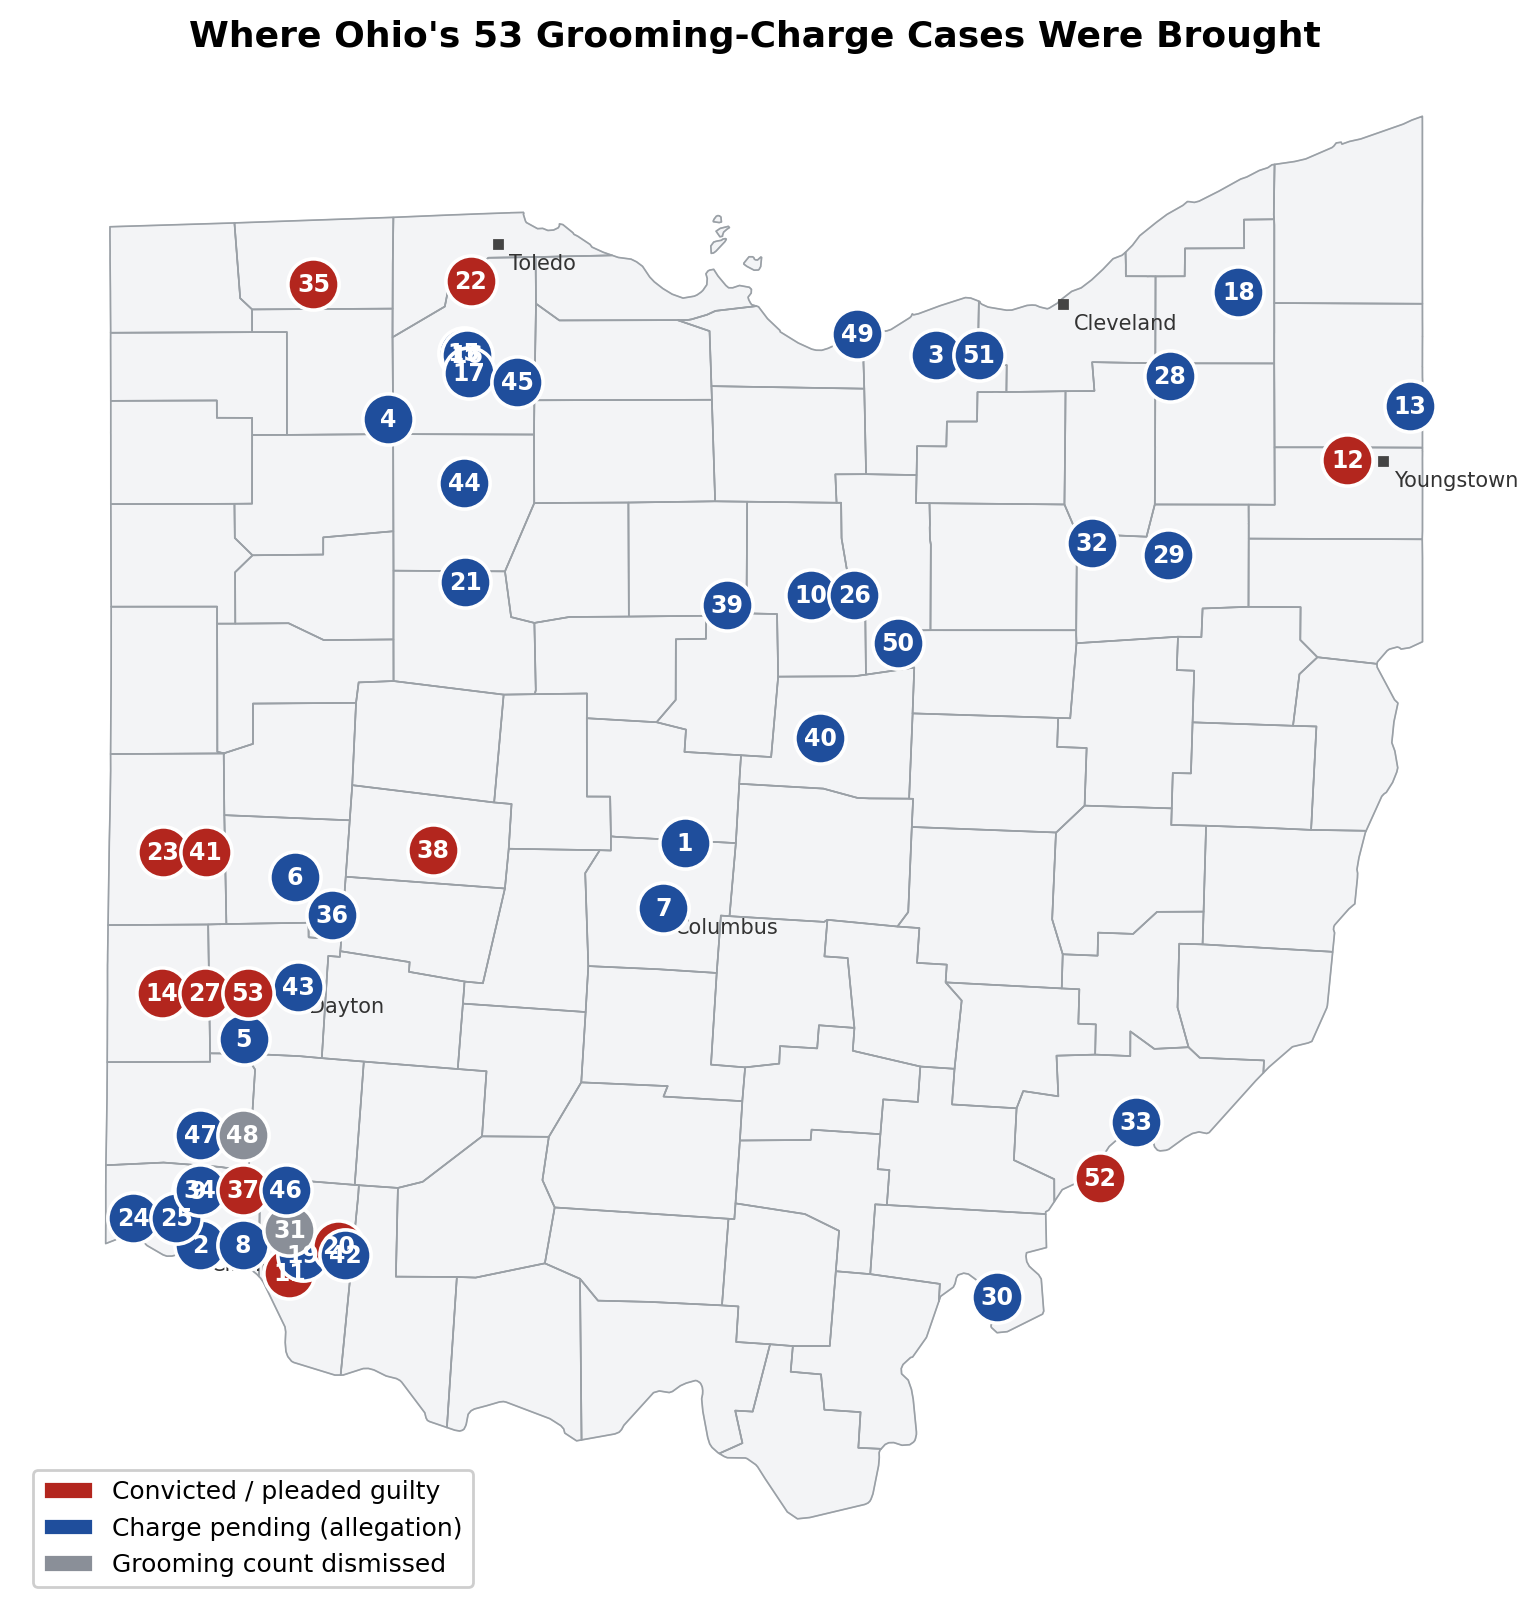
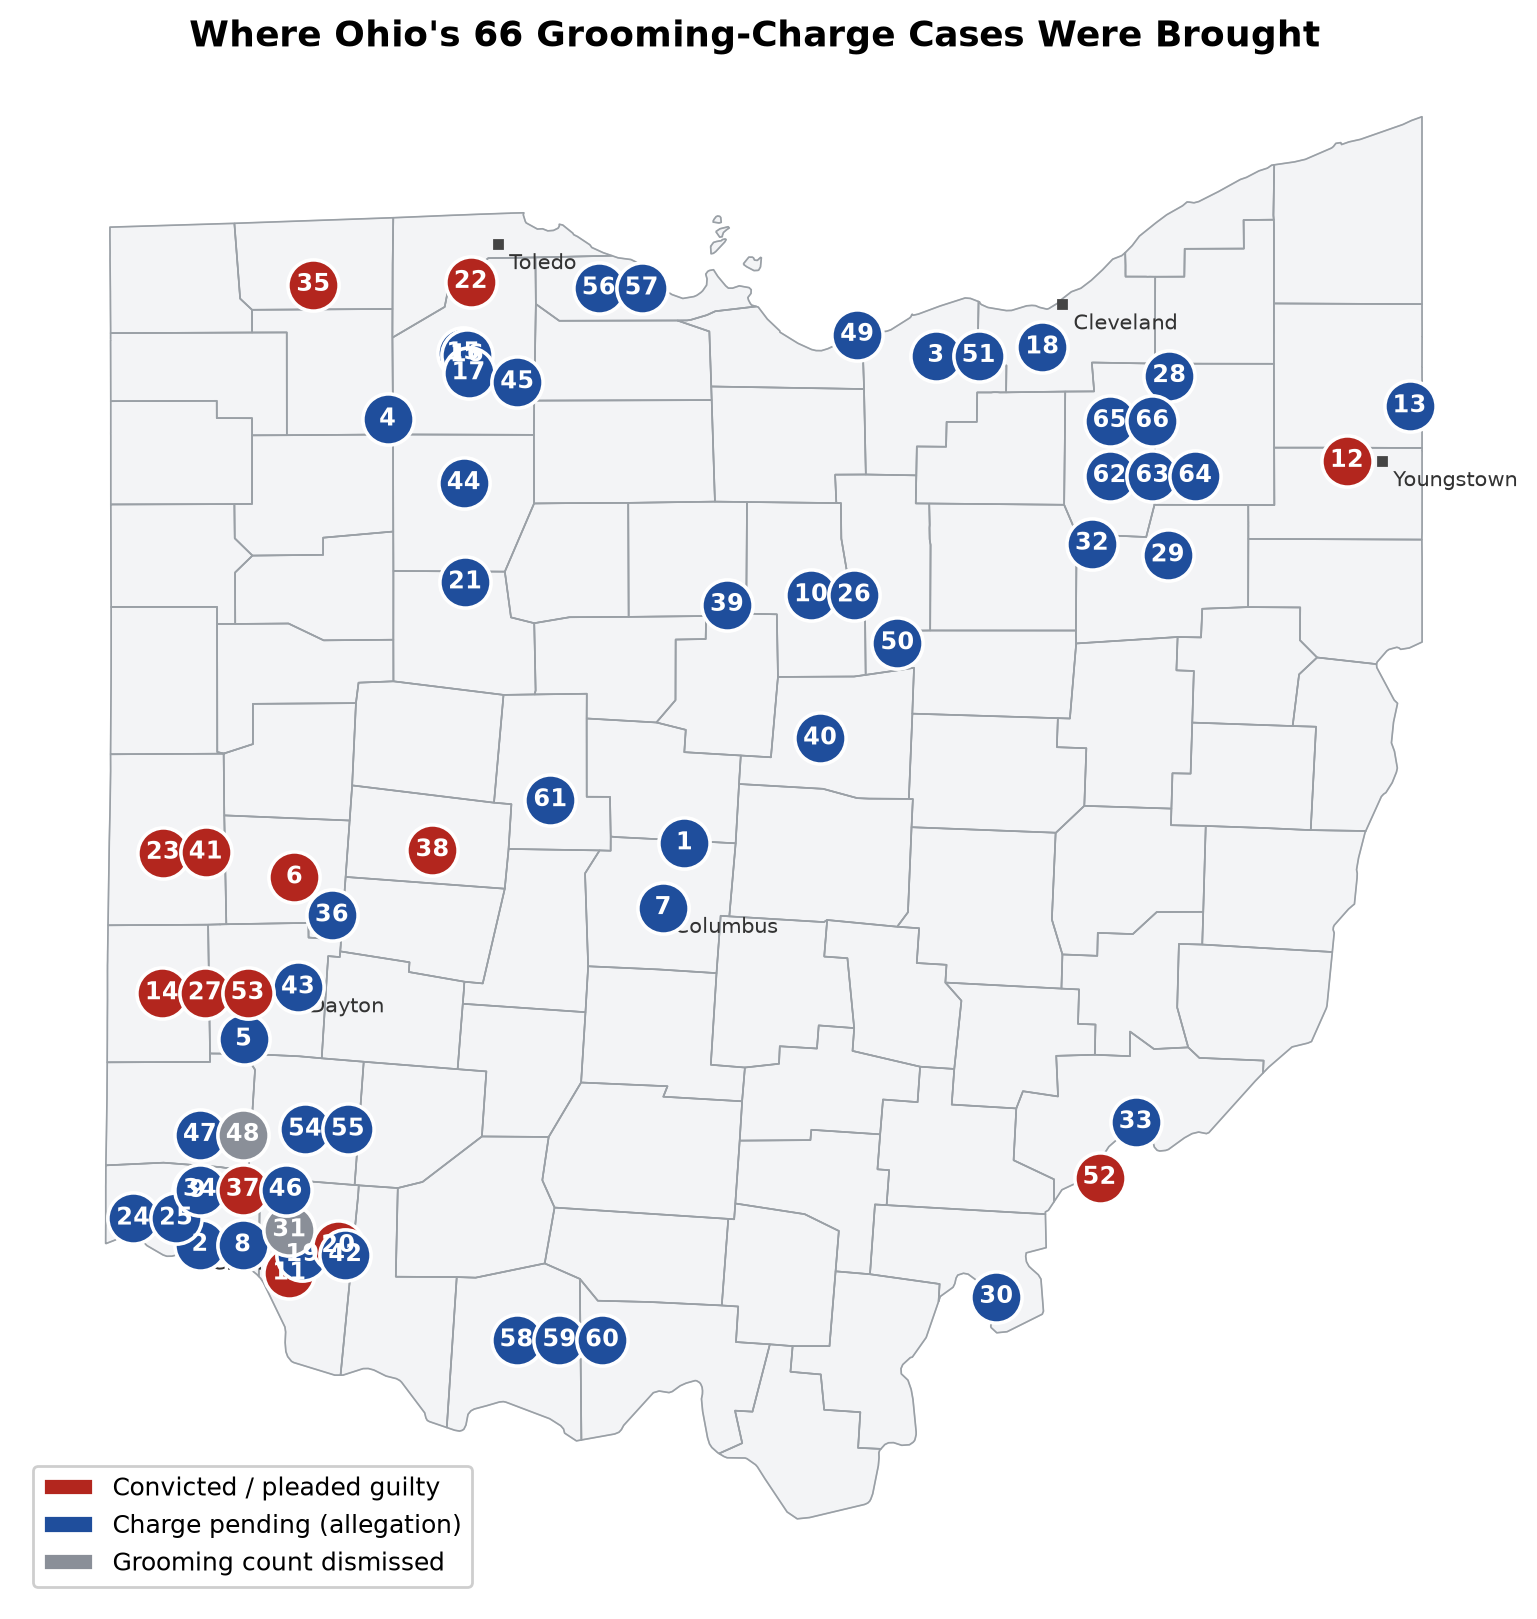
grooming: judge 2026-11-03: +5 (Naylor, Rolands, Haman, Pitcher, Love)

diff --git a/docs/grooming/index.html b/docs/grooming/index.html
@@ -6,7 +6,7 @@
 <meta http-equiv="refresh" content="0; url=https://claude.ai/artifact/L2qaA61k6neUampn7kD24R">
 <link rel="canonical" href="https://claude.ai/artifact/L2qaA61k6neUampn7kD24R">
 <meta name="description" content="Every Ohioan charged under Ohio's grooming law, ORC 2907.071, with a source on every case.">
-<meta property="og:title" content="61 Ohioans charged with grooming">
+<meta property="og:title" content="66 Ohioans charged with grooming">
 <meta property="og:description" content="Every Ohioan charged under ORC 2907.071, with charges, status and a source on every case.">
 <meta property="og:url" content="https://chrisgraham.com/grooming">
 <meta property="og:image" content="https://chrisgraham.com/grooming/img/ohio_map.png">
